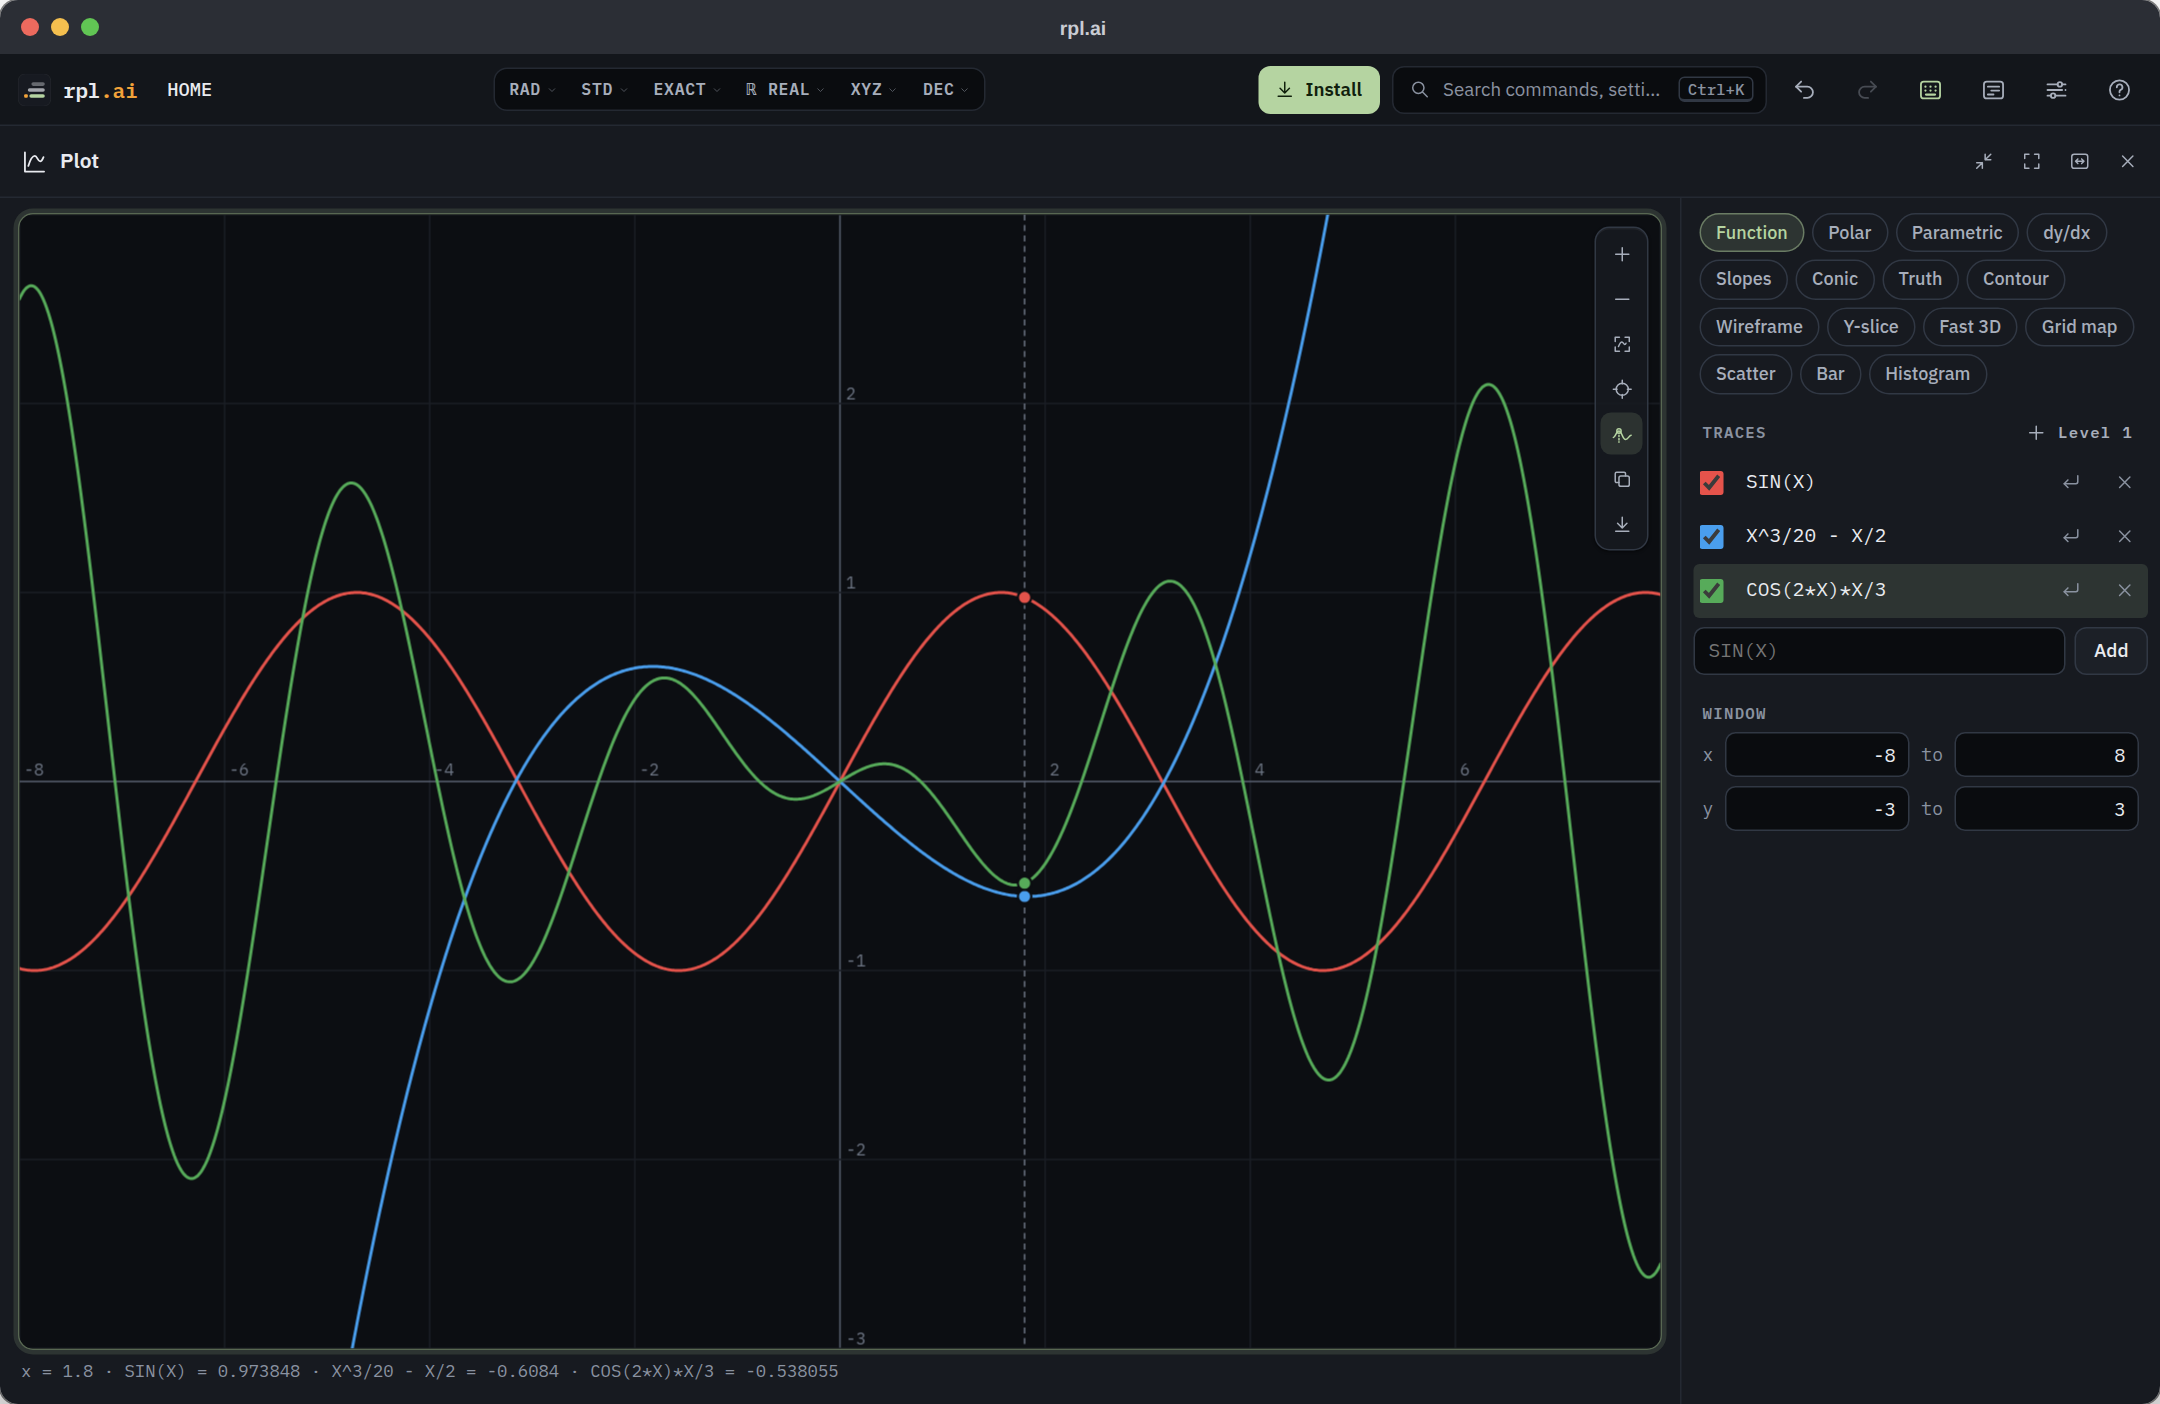
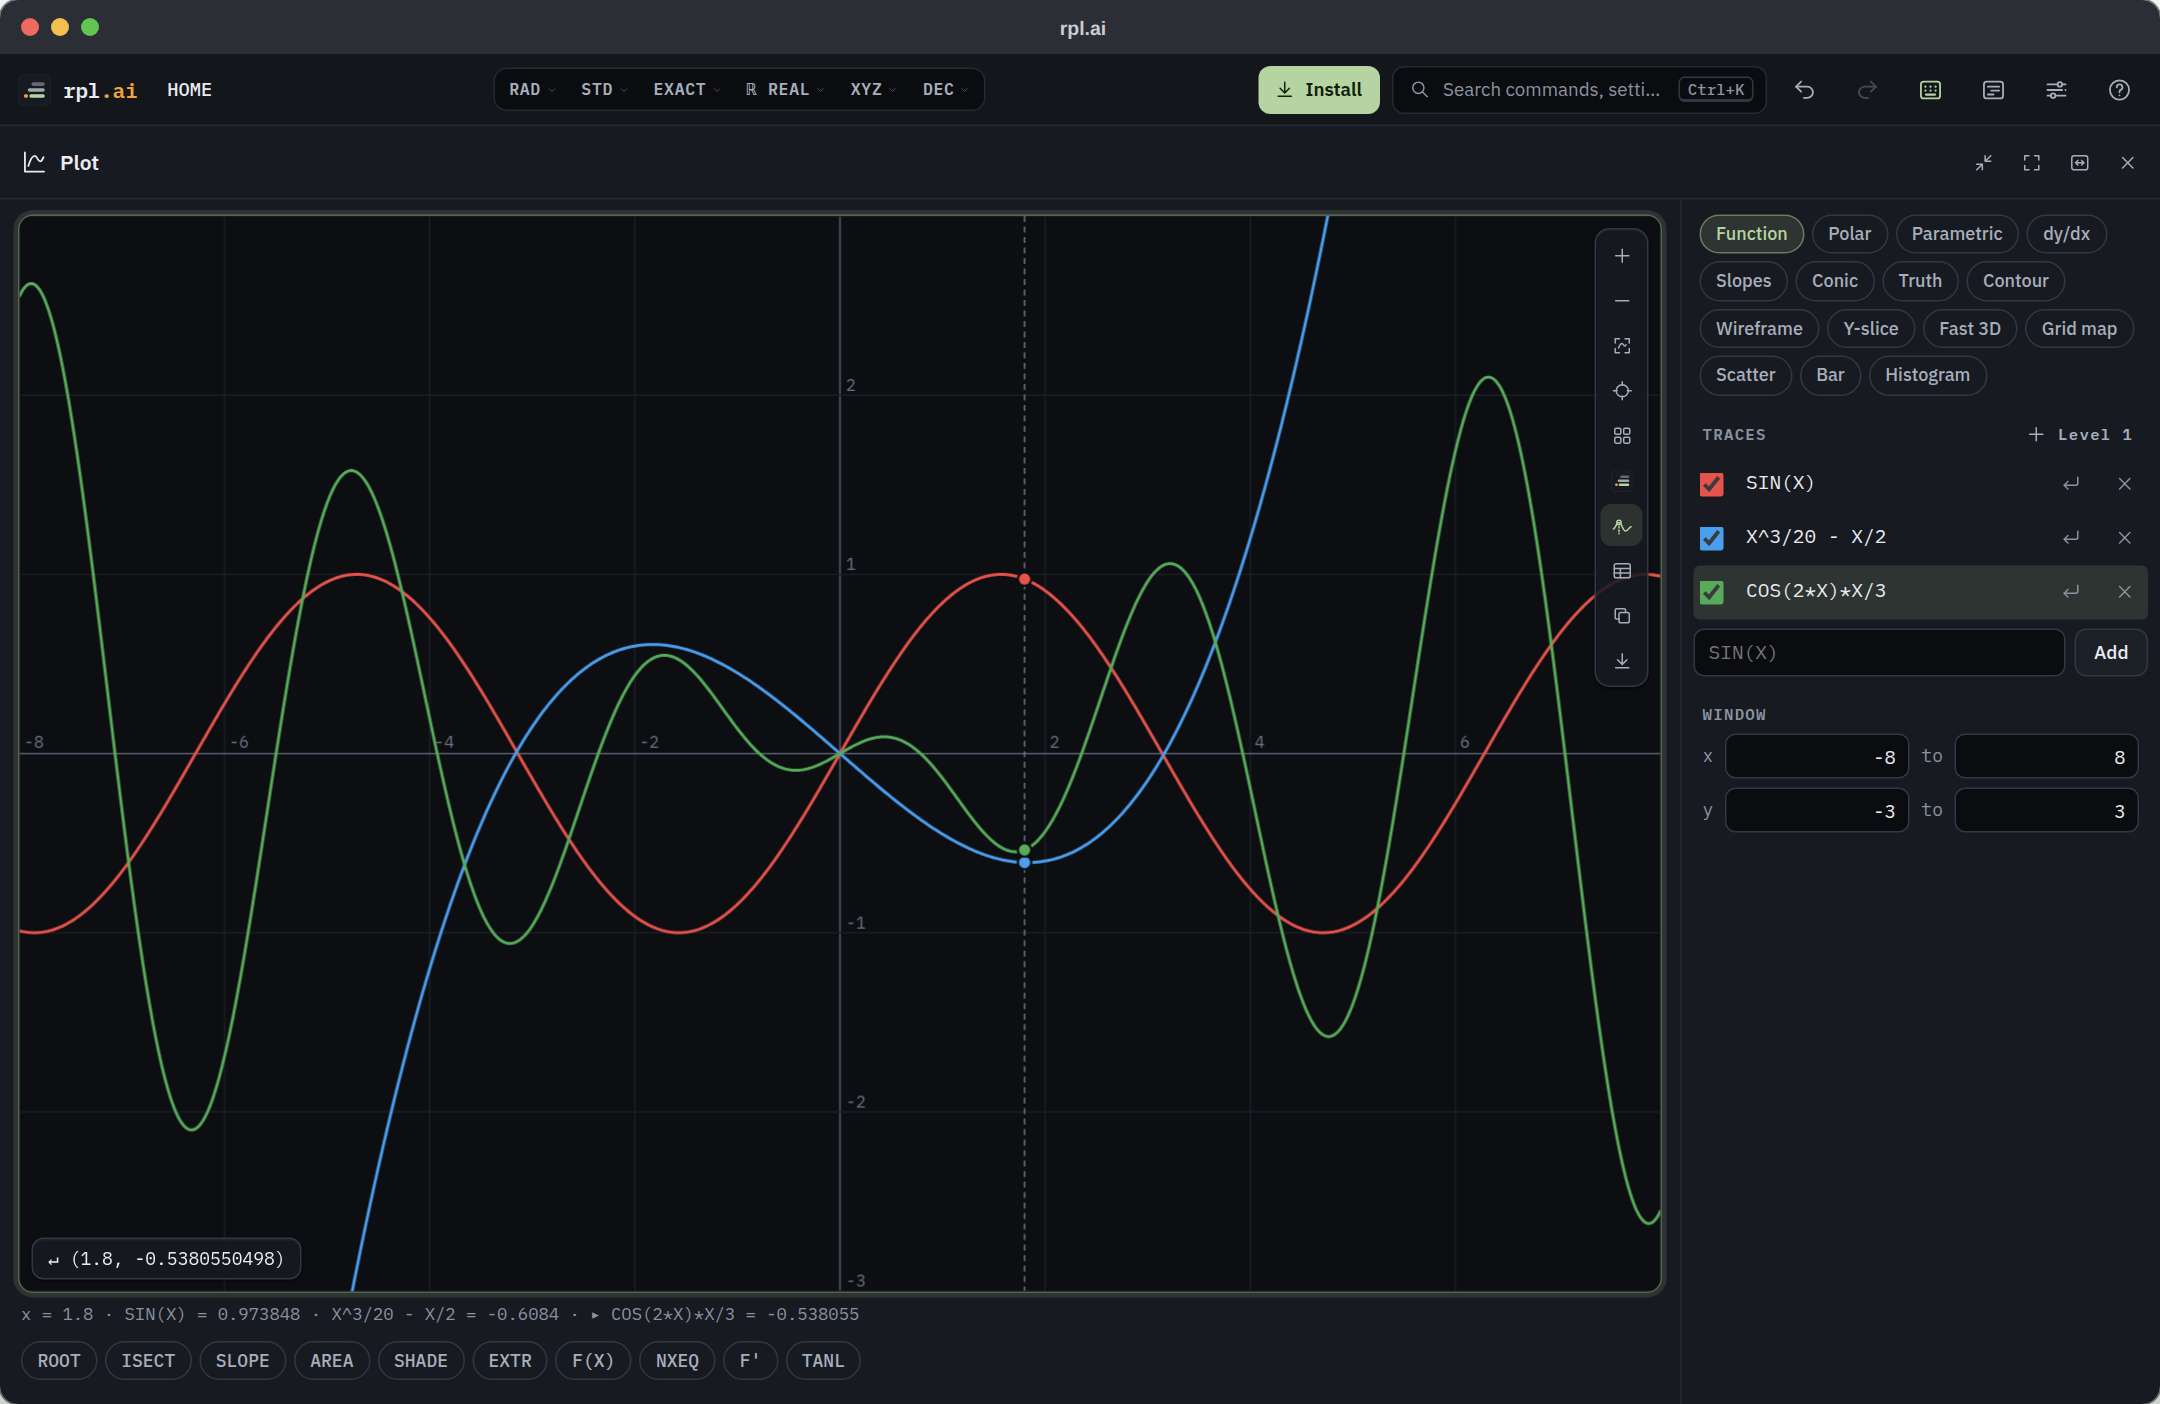
bump to 0.8.73
Notes for the plot table of values, numbers-first products in CAS results and the usual keyboard on the plot's bounds, with the plot screenshot showing the table button.

diff --git a/RELEASE_NOTES.md b/RELEASE_NOTES.md
@@ -1,6 +1,6 @@
 # Release Notes — rpl.ai
 
-**Latest release:** v0.8.72 (2026-10-23)
+**Latest release:** v0.8.73 (2026-10-23)
 
 ---
 
@@ -20,6 +20,25 @@ that run in any modern browser — no build step, no framework, no bundler
 required for development.
 
 ---
+
+## v0.8.73 — 2026-10-23
+
+- Added: a table of values for the plot, the HP's TABLE. The table button
+  among the plot's tools, or `V` on the plot, opens a sheet of x from a
+  start by a step with a column for each function plotted, opening on a round
+  start at the window's left edge. Type another start or step, halve or
+  double the step, or move Earlier and Later by 30 rows; a tap on a value puts
+  its point, (x,y), on the stack, and a tap on x the number alone. A function
+  with no value at an x shows a dash. The header stays while the rows scroll,
+  and columns that run past a narrow screen fade at the edge.
+- Fixed: CAS results wrote a product with its numbers last, `A*2*X` for the
+  derivative of `A*X^2` and `B*3*COS(3*X)` for that of `B*SIN(3*X)`. A
+  product now reads with its numbers first, `2*A*X` and `3*B*COS(3*X)`; only
+  literal numbers move, and the other factors keep their order.
+- Improved: the plot's window fields and the table's start and step ask for
+  the phone's usual keyboard. An iPhone's decimal pad has no minus sign, so a
+  negative bound or start could not be typed there; their Enter key now says
+  Done.
 
 ## v0.8.72 — 2026-10-23
 
